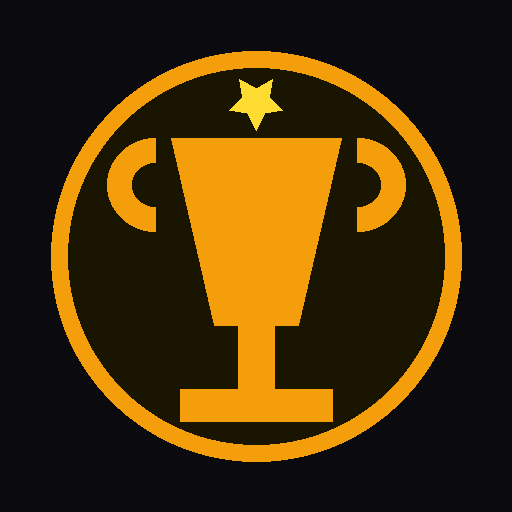
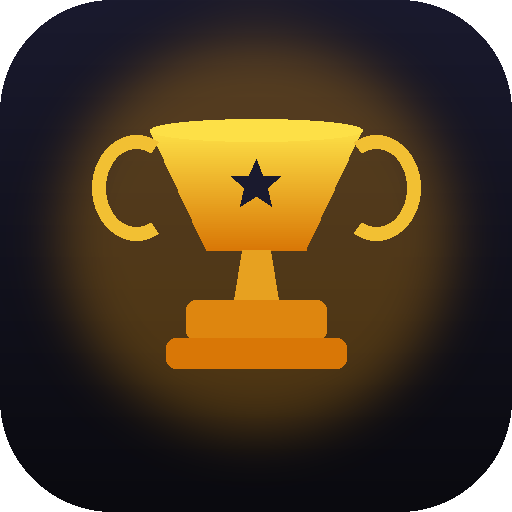
Add files via upload

diff --git a/index.html b/index.html
@@ -4,8 +4,8 @@
 <meta charset="UTF-8">
 <meta name="viewport" content="width=device-width, initial-scale=1.0">
 <title>מונדיאל 2026 — ניתוח הימורים חי</title>
-<link rel="manifest" href="/manifest.json">
-<link rel="apple-touch-icon" href="/icon-192.png">
+<link rel="manifest" href="manifest.json">
+<link rel="apple-touch-icon" href="icon-192.png">
 <meta name="apple-mobile-web-app-capable" content="yes">
 <meta name="apple-mobile-web-app-status-bar-style" content="black-translucent">
 <meta name="apple-mobile-web-app-title" content="מונדיאל 26">
@@ -254,6 +254,22 @@ body.light .pos-badge.p4{background:#fee2e2;color:#991b1b}
 .squad-goal-bar{height:100%;border-radius:3px;background:linear-gradient(90deg,#10b981,#4ade80)}
 .squad-captain-badge{position:absolute;top:6px;left:6px;background:var(--gold);color:#0a0a0f;font-size:.55rem;font-weight:900;padding:1px 5px;border-radius:5px}
 .squad-loading{padding:30px 20px;text-align:center;color:var(--muted);font-size:.8rem}
+.squad-player{cursor:pointer}
+@media(max-width:480px){.squad-player-name{white-space:normal;line-height:1.25}.squad-grid{grid-template-columns:repeat(auto-fill,minmax(130px,1fr))}}
+/* ── PLAYER MODAL ── */
+.pm-header{display:flex;align-items:center;gap:14px;padding-bottom:14px;margin-bottom:14px;border-bottom:1px solid var(--border)}
+.pm-avatar{width:64px;height:64px;border-radius:50%;display:flex;align-items:center;justify-content:center;font-weight:900;font-size:1.3rem;color:#fff;flex-shrink:0;box-shadow:0 3px 10px rgba(0,0,0,.35);border:3px solid rgba(255,255,255,.15)}
+.pm-name{font-size:1.05rem;font-weight:900;color:var(--text)}
+.pm-sub{font-size:.78rem;color:var(--muted);margin-top:3px;display:flex;align-items:center;gap:6px;flex-wrap:wrap}
+.pm-stats-grid{display:grid;grid-template-columns:repeat(2,1fr);gap:8px;margin-bottom:12px}
+.pm-stat-box{background:var(--bg3);border:1px solid var(--border);border-radius:10px;padding:10px;text-align:center}
+.pm-stat-val{font-size:1.25rem;font-weight:900;color:var(--gold)}
+.pm-stat-lbl{font-size:.65rem;color:var(--muted);margin-top:2px}
+.pm-row{display:flex;justify-content:space-between;align-items:center;padding:8px 0;border-bottom:1px solid var(--border);font-size:.8rem}
+.pm-row:last-child{border-bottom:none}
+.pm-row-lbl{color:var(--muted)}
+.pm-row-val{font-weight:700;color:var(--text)}
+body.light .pm-stat-box{background:#f1f5f9}
 body.light .squad-panel{background:#f8fafc}
 body.light .squad-player{background:linear-gradient(160deg,#fff,#f1f5f9)}
 body.light .squad-player-stats{color:#64748b}
@@ -342,6 +358,17 @@ body.light .squad-goal-bar-wrap{background:#e2e8f0}
       <div style="font-size:.78rem;font-weight:700;color:var(--gold);margin-bottom:8px">🔥 חדשות אחרונות על הקבוצות</div>
       <div id="h2h-news" style="background:var(--bg3);border:1px solid var(--border);border-radius:10px;padding:12px;min-height:60px"></div>
     </div>
+  </div>
+</div>
+
+<!-- PLAYER MODAL -->
+<div class="modal-overlay" id="player-modal" style="display:none" onclick="if(event.target===this)closePlayerModal()">
+  <div class="modal-box" style="max-width:380px">
+    <div class="modal-header">
+      <div class="modal-title" id="player-title">פרטי שחקן</div>
+      <button class="modal-close" onclick="closePlayerModal()">✕</button>
+    </div>
+    <div class="modal-body" id="player-body"></div>
   </div>
 </div>
 
@@ -752,7 +779,8 @@ function renderMatches(){
     const isT=d===today;
     html+=`<div class="date-group" data-date="${d}">`;
     html+=`<div style="font-size:.78rem;font-weight:700;color:${isT?'var(--gold)':'var(--muted)'};margin:${di>0?'16px':0} 0 8px">${isT?'🔴 היום — ':''}${byDate[d][0].date} (${['ראשון','שני','שלישי','רביעי','חמישי','שישי','שבת'][new Date(d).getDay()]})</div>`;
-    byDate[d].forEach(m=>{ html+=renderMatchCard(m); });
+    const dayMatches=[...byDate[d]].sort((a,b)=>getMatchUTC(a)-getMatchUTC(b));
+    dayMatches.forEach(m=>{ html+=renderMatchCard(m); });
     html+=`</div>`;
   });
   const remaining=allDates.length-showDates.length;
@@ -1491,8 +1519,58 @@ function closeH2H(){
   document.body.style.overflow='';
 }
 
+function showPlayerModal(teamName, posKey, playerName){
+  const squad = getSquad(teamName);
+  if(!squad || !squad[posKey]) return;
+  const p = squad[posKey].find(x=>x.n===playerName);
+  if(!p) return;
+  const colors = TEAM_COLORS[teamName] || DEFAULT_TEAM_COLORS;
+  const initials = getInitials(p.n);
+  const meta = POS_META[posKey];
+  const team = MATCHES.flatMap(m=>[{n:m.home,f:m.hf},{n:m.away,f:m.af}]).find(t=>t.n===teamName) || {f:''};
+
+  // Tier badge by experience
+  let tier, tierColor;
+  if(p.caps>=100){tier='אגדה 🌟';tierColor='#fbbf24';}
+  else if(p.caps>=60){tier='ותיק';tierColor='#60a5fa';}
+  else if(p.caps>=30){tier='מנוסה';tierColor='#4ade80';}
+  else {tier='כוכב עולה';tierColor='#f472b6';}
+
+  const goalsPerCap = p.caps>0 ? ((p.g/p.caps)*100).toFixed(0) : 0;
+
+  let html = `<div class="pm-header">
+    <div class="pm-avatar" style="background:linear-gradient(135deg,${colors[0]},${colors[1]})">${initials}</div>
+    <div>
+      <div class="pm-name">${p.n}</div>
+      <div class="pm-sub">${team.f} ${teamName} · ${meta.label} ${p.cap?' · © קפטן':''}</div>
+      <div class="pm-sub"><span style="background:${tierColor}22;color:${tierColor};padding:1px 8px;border-radius:10px;font-weight:800;font-size:.68rem">${tier}</span></div>
+    </div>
+  </div>
+  <div class="pm-stats-grid">
+    <div class="pm-stat-box"><div class="pm-stat-val">${p.caps}</div><div class="pm-stat-lbl">הופעות נבחרת</div></div>
+    <div class="pm-stat-box"><div class="pm-stat-val">${p.g}</div><div class="pm-stat-lbl">שערים</div></div>
+  </div>`;
+
+  if(p.goal_pct!=null){
+    html += `<div class="pm-row"><span class="pm-row-lbl">מעורבות במשחק (% משחקים עם גול)</span><span class="pm-row-val" style="color:#4ade80">${p.goal_pct}%</span></div>`;
+  }
+  html += `<div class="pm-row"><span class="pm-row-lbl">יחס שערים להופעות</span><span class="pm-row-val">${goalsPerCap}%</span></div>`;
+  html += `<div class="pm-row"><span class="pm-row-lbl">תפקיד</span><span class="pm-row-val">${meta.label}</span></div>`;
+  html += `<div class="pm-row"><span class="pm-row-lbl">נבחרת</span><span class="pm-row-val">${team.f} ${teamName}</span></div>`;
+
+  document.getElementById('player-title').textContent=p.n;
+  document.getElementById('player-body').innerHTML=html;
+  document.getElementById('player-modal').style.display='flex';
+  document.body.style.overflow='hidden';
+}
+
+function closePlayerModal(){
+  document.getElementById('player-modal').style.display='none';
+  document.body.style.overflow='';
+}
+
 // Close modal on Escape
-document.addEventListener('keydown',e=>{if(e.key==='Escape')closeH2H();});
+document.addEventListener('keydown',e=>{if(e.key==='Escape'){closeH2H();closePlayerModal();}});
 
 // ===================== DAILY ODDS UPDATE =====================
 // Runs once per day, fetches updated odds via AI web search
@@ -1815,6 +1893,10 @@ function getInitials(name){
   return name.substring(0,2).toUpperCase();
 }
 
+function esc(s){
+  return String(s).replace(/\\/g,'\\\\').replace(/'/g,"\\'");
+}
+
 function renderSquadPanel(m, side){
   const teamName = side==='home' ? m.home : m.away;
   const squad = getSquad(teamName);
@@ -1831,7 +1913,7 @@ function renderSquadPanel(m, side){
       <div class="squad-grid">`;
     squad[pos].forEach(p=>{
       const initials = getInitials(p.n);
-      html += `<div class="squad-player">
+      html += `<div class="squad-player" onclick="showPlayerModal('${esc(teamName)}','${pos}','${esc(p.n)}')">
         ${p.cap?'<div class="squad-captain-badge">© קפטן</div>':''}
         <div class="squad-player-avatar" style="background:linear-gradient(135deg,${colors[0]},${colors[1]})">${initials}</div>
         <div class="squad-player-info">